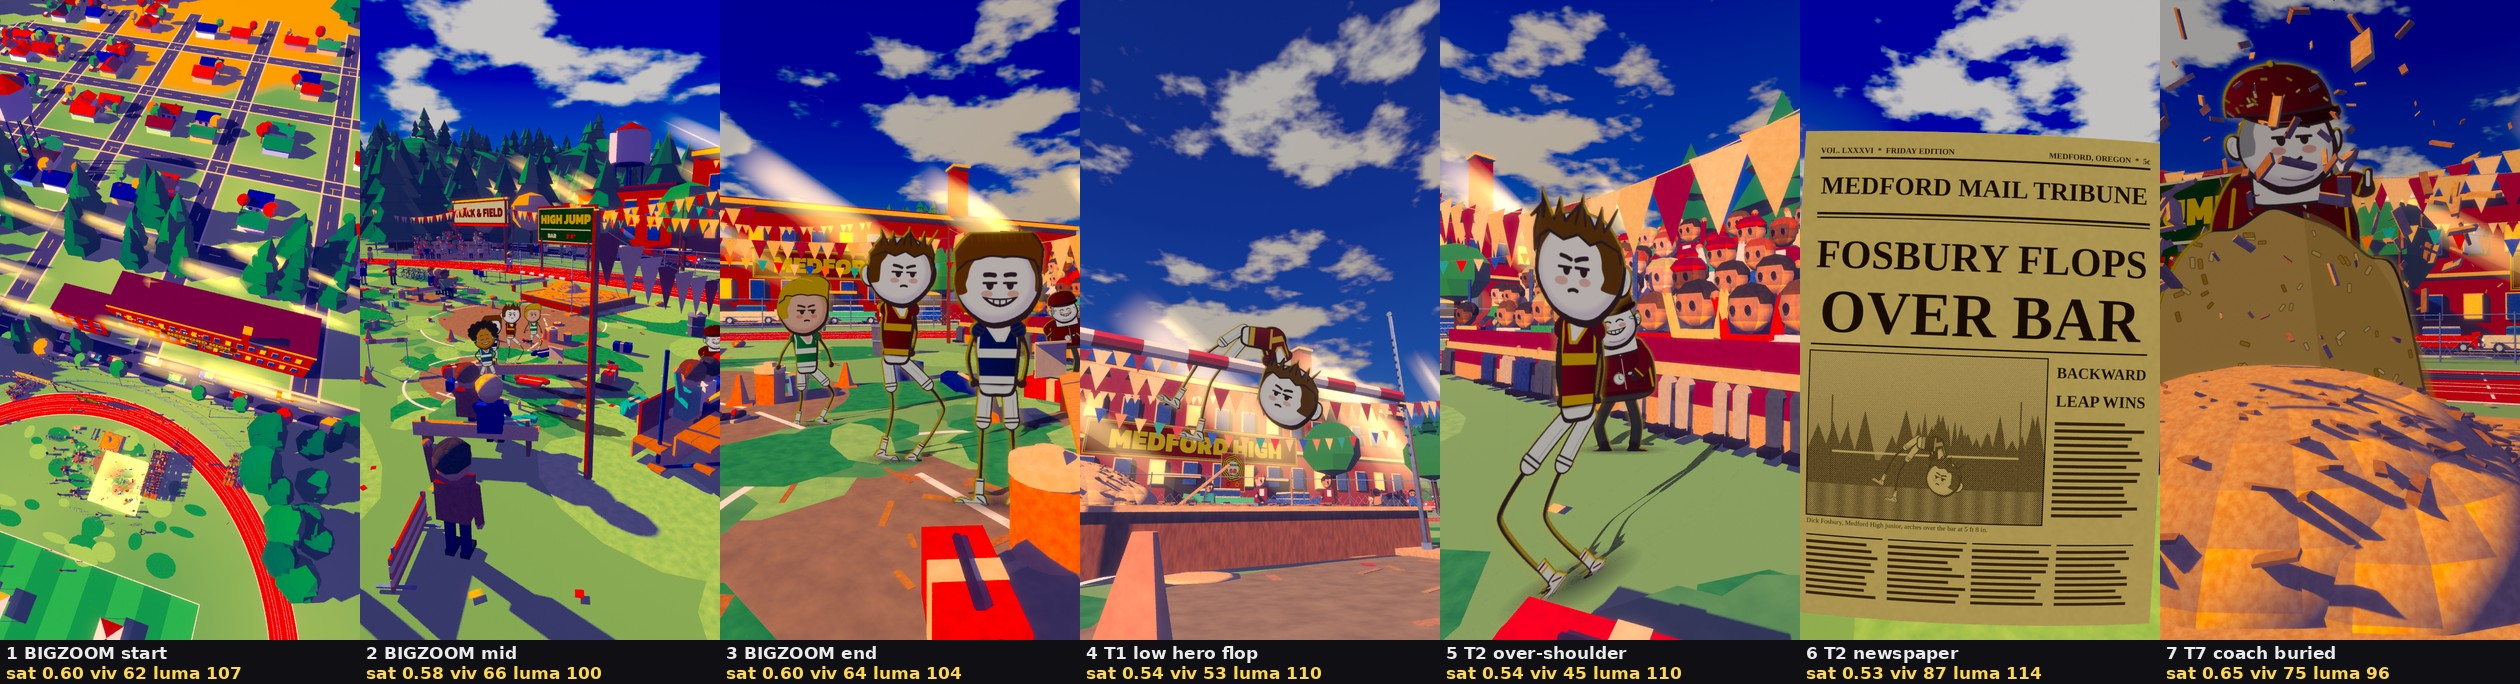
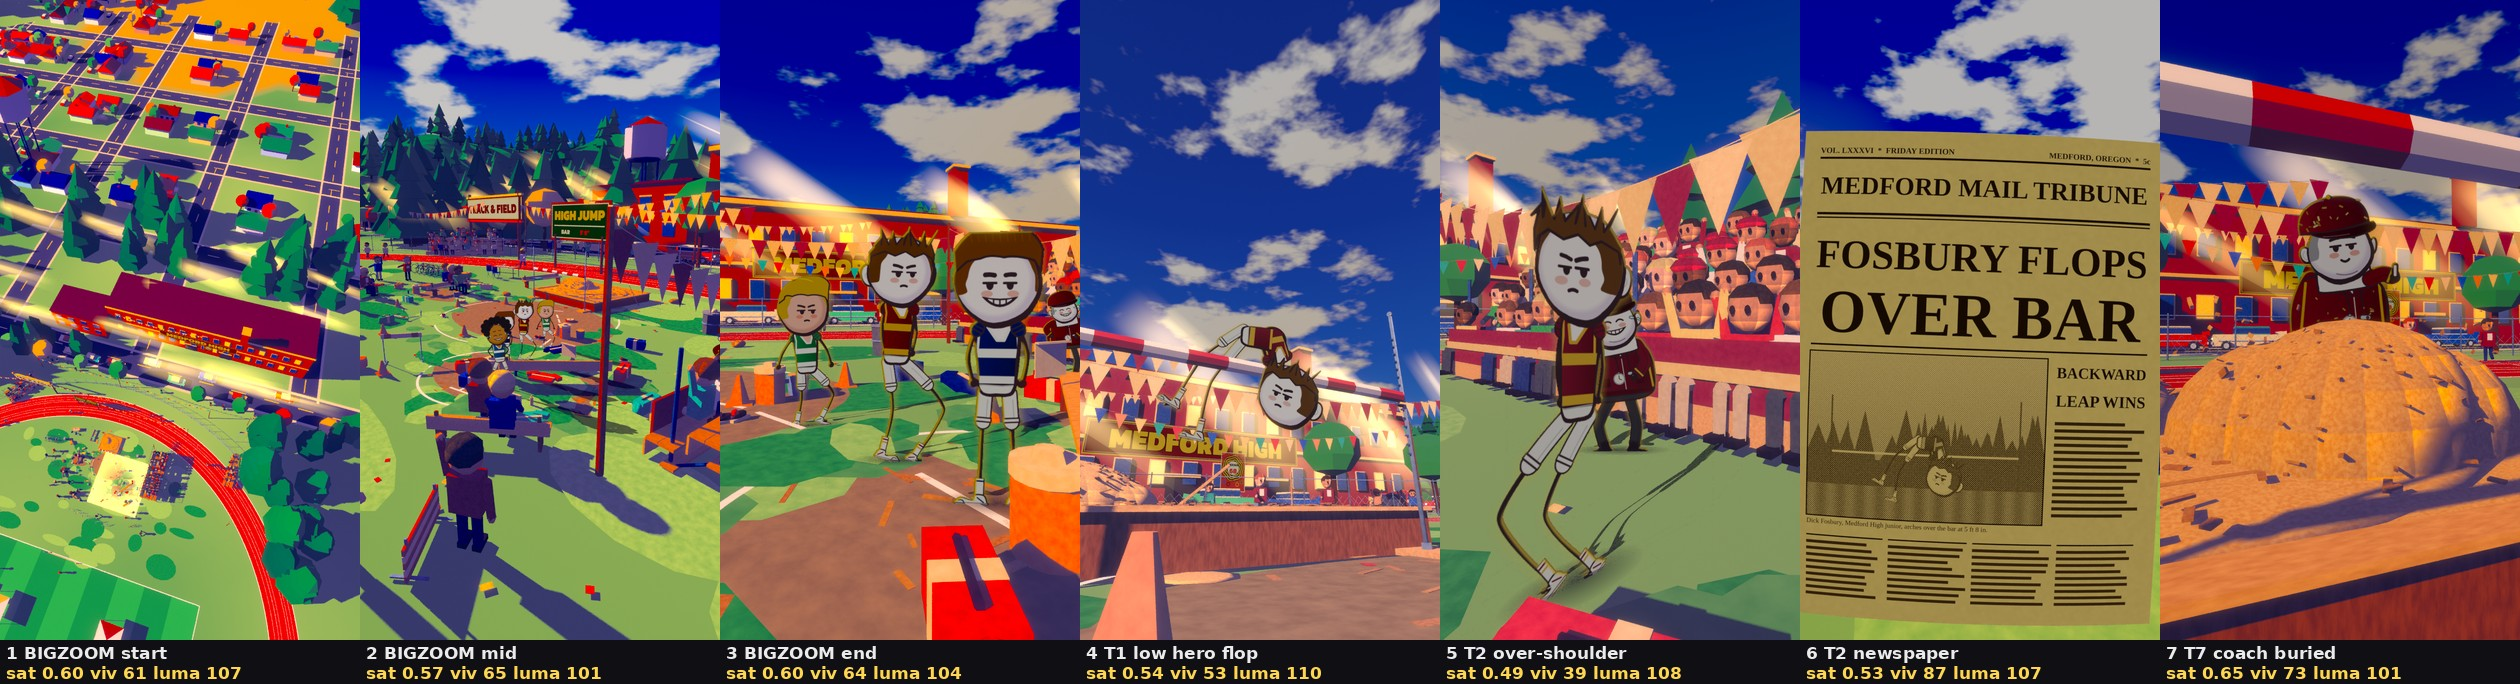
film15 v2: location A round 3 (no foam, soft low rays, 3D burial mound + flecks, bigzoom mid path)
Claude-Session: https://claude.ai/code/session_017iwyCvV4FWE8oAoH1CANdN

diff --git a/film/v3/set3d15/v2_a.py b/film/v3/set3d15/v2_a.py
@@ -628,14 +628,14 @@ def shaft_mat(color=(1.0, 0.72, 0.30), k=1.0):
     tr = N('ShaderNodeBsdfTransparent'); ad = N('ShaderNodeAddShader'); Lk(tr.outputs[0], ad.inputs[0]); Lk(em.outputs[0], ad.inputs[1])
     out = N('ShaderNodeOutputMaterial'); Lk(ad.outputs[0], out.inputs['Surface']); m.cycles.emission_sampling = 'NONE'; _SHAFT_MAT[key] = m; return m
 
-def god_rays(P, n=16, seed=5, strength=0.9, width=(3.0, 7.0), length=(38.0, 55.0), where=None, cross=True):
+def god_rays(P, n=16, seed=5, strength=0.9, width=(3.0, 7.0), length=(38.0, 55.0), where=None, cross=True, z_range=(12.0, 16.0)):
     """fake volumetric light shafts: long additive emissive cards (Transparent + Emission, no shadow, no bounce) lying along the sun direction, starting in the pine canopy and ending on the field.
     Each shaft is a CROSS of two quads (90 deg apart about the beam axis) so it reads from any direction. strength = emission multiplier (0.9 default); shaft_k node of the material scales all."""
     rr = rnd(seed); m = shaft_mat(k=strength * 1.0); kd = Vector(P['key_dir']).normalized(); sd = -kd
     pts = where or [(rr.uniform(-60, 40), rr.uniform(20, 70)) for _ in range(n)]
     objs = []
     for i, (x, y) in enumerate(pts):
-        ln = rr.uniform(*length); wd = rr.uniform(*width); top = Vector((x, y, rr.uniform(12, 16))); end = top + kd * ln
+        ln = rr.uniform(*length); wd = rr.uniform(*width); top = Vector((x, y, rr.uniform(*z_range))); end = top + kd * ln
         if end.z < 0: ln = top.z / -kd.z; end = top + kd * ln
         ax = (end - top).normalized(); up = Vector((0, 0, 1)); side = ax.cross(up).normalized(); nrm = side.cross(ax).normalized()
         for q in range(2 if cross else 1):
@@ -747,7 +747,7 @@ def infield_life(M, rr):
     """the south half of the field is not empty: team tents (maroon / gold), a long-jump runway + pit, a pole-vault mat, hurdle rows on the straights, cones, relay runners, benches + gear piles."""
     mk_people_mats(M); mb = S.MB('infield')
     M['maroonp'] = M.get('maroonp') or mat('maroonp', '#a82040', '#bc3050'); M['goldp'] = M.get('goldp') or mat('goldp', '#f0c040', '#f4d060')
-    M['matblue'] = mat('matblue', '#1c50e0', '#3a72f4'); M['sand'] = mat('sandA', '#ffd070', '#ffe08c', 6)
+    M['sand'] = mat('sandA', '#ffd070', '#ffe08c', 6)
     # tents: four posts, striped pyramid roof, bench + coolers under it
     for i, (tx, ty, yw, c1) in enumerate([(-18, -30, 0.1, 'maroonp'), (-10, -30, 0.0, 'goldp'), (14, -28, -0.1, 'maroonp'), (22, -30, 0.1, 'blue')]):
         for dx, dy in ((-2.2, -2.2), (2.2, -2.2), (2.2, 2.2), (-2.2, 2.2)): mb.rod(M['metal'], (tx + dx, ty + dy, 0), (tx + dx, ty + dy, 2.6), 0.05, 0.05, 6)
@@ -759,7 +759,9 @@ def infield_life(M, rr):
     mb.box(M['dirt'], (-24, -62, 0.012), (30.0, 2.4, 0.02)); mb.box(M['sand'], (-6.5, -62, 0.014), (5.0, 3.2, 0.02)); mb.box(M['chalk'], (-9.0, -62, 0.03), (0.3, 2.4, 0.01))
     person(mb, M, -17.0, -62.0, 0.02, -math.pi / 2, 'maroon', 'pantsb', 'skin1', 'hair', 'run', phase=0.6)
     # pole-vault / high-jump style mats (blue) with standards
-    mb.box(M['matblue'], (18.0, -62.0, 0.5), (5.0, 4.0, 1.0)); mb.box(M['matblue'], (18.0, -56.0, 0.35), (5.0, 3.0, 0.7)); mb.rod(M['metal'], (15.0, -58.5, 0), (15.0, -58.5, 4.5), 0.05, 0.05, 6); mb.rod(M['metal'], (21.0, -58.5, 0), (21.0, -58.5, 4.5), 0.05, 0.05, 6)
+    for (yy, rx, ry) in ((-62.0, 2.6, 2.0), (-55.5, 1.6, 1.2)):                       # 1963: SAWDUST pits in a wooden frame (no foam anywhere)
+        mb.box(M['wood'], (18.0, yy, 0.2), (rx * 2 + 0.3, ry * 2 + 0.3, 0.4)); mb.ell(M['saw'], (18.0, yy, 0.38), (rx, ry, 0.22), (14, 8))
+    mb.rod(M['woodpale'], (15.0, -58.5, 0), (15.0, -58.5, 4.5), 0.05, 0.05, 6); mb.rod(M['woodpale'], (21.0, -58.5, 0), (21.0, -58.5, 4.5), 0.05, 0.05, 6)
     mb.rod(M['yellow'], (15.0, -58.5, 4.2), (21.0, -58.5, 4.2), 0.03, 0.03, 6)
     # hurdles on the straights (lane 2 / 3), cones, start blocks
     for k in range(9): S.hurdle(mb, M, (-49.0, -36.0 - k * 1.7, 0.0), math.pi / 2, 0.0); S.hurdle(mb, M, (51.0, -36.0 - k * 1.7, 0.0), math.pi / 2, 0.0)
@@ -963,3 +965,35 @@ def spot(x, y, r=5.0, k=1.2, color=(1.0, 0.8, 0.35)):
     out = N('ShaderNodeOutputMaterial'); Lk(ad.outputs[0], out.inputs['Surface']); m.cycles.emission_sampling = 'NONE'
     z = 0.06
     return quad_obj('spot', [(x - r, y - r, z), (x + r, y - r, z), (x + r, y + r, z), (x - r, y + r, z)], m)
+
+
+def sawdust_flecks(frame, position, strength=1.0, seed=0, floor=None):
+    """v2 sawdust burst: SMALL flecks (2-4 cm grains, a few 6 cm splinters), low arcs (about 0.3 m high, 1 m out) that fall back and stay on the surface within ~0.5 s: nothing hangs in the air.
+    Same geometry-node group as F.sawdust_spray; position (x, y, z) in D (z = the surface), floor = landing z in D."""
+    M = STATE['M']; rr = rnd(91 + seed * 7 + int(frame)); p = Vector(position) * DM; fz = 0.02 if floor is None else (floor * DM - p.z) + 0.02
+    items = []
+    for i in range(int(70 * strength) + 10):
+        az = rr.random() * 6.28; el = math.radians(rr.uniform(35, 68)); sp_ = rr.uniform(0.9, 2.3) * (0.6 + 0.4 * strength); ln = rr.choice((0.025, 0.03, 0.04, 0.045, 0.06)); rd = rr.uniform(0.1, 0.7)
+        items.append((rd * math.cos(az), rd * math.sin(az), 0.03, sp_ * math.cos(el) * math.cos(az), sp_ * math.cos(el) * math.sin(az), sp_ * math.sin(el), ln))
+    V_ = []; F_ = []; mi = []; C = []; Vv = []; Sp = []; Tl = []
+    for (cx, cy, cz, vx, vy, vz, ln) in items:
+        a = rr.random() * 6.28; B, Fs = F.boxes_np([(cx, cy, cz)], [(ln, ln * rr.uniform(0.4, 0.8), ln * 0.35)], [a]); t_land = (vz + math.sqrt(max(vz * vz + 19.62 * (cz - fz), 0.0))) / 9.81
+        o = len(V_); V_ += B.tolist(); F_ += [[o + i for i in f] for f in Fs.tolist()]; mi += [rr.choice((0, 0, 1))] * 6; C += [(cx, cy, cz)] * 8; Vv += [(vx, vy, vz)] * 8; Sp += [(rr.uniform(-8, 8), rr.uniform(-8, 8), rr.uniform(-8, 8))] * 8; Tl += [t_land] * 8
+    me = bpy.data.meshes.new('flecks'); me.from_pydata(V_, [], F_); me.update()
+    for nm, typ, arr in (('c', 'FLOAT_VECTOR', C), ('v', 'FLOAT_VECTOR', Vv), ('sp', 'FLOAT_VECTOR', Sp), ('tl', 'FLOAT', Tl)):
+        at = me.attributes.new(nm, typ, 'POINT')
+        if typ == 'FLOAT': at.data.foreach_set('value', np.array(arr, dtype=np.float32))
+        else: at.data.foreach_set('vector', np.array(arr, dtype=np.float32).reshape(-1))
+    me.materials.append(M['saw']); me.materials.append(M['chip']); me.polygons.foreach_set('material_index', np.array(mi, dtype=np.int32))
+    ob = bpy.data.objects.new('flecks_%d' % frame, me); STATE['SET'].objects.link(ob); ob.parent = root(); ob.location = p; L.T.no_bounce(ob)
+    ng = F._spray_group().copy(); ng.nodes['start'].outputs[0].default_value = float(frame); md = ob.modifiers.new('spray', 'NODES'); md.node_group = ng
+    return ob
+
+def burial_mound(x, y, base, top, rr=None, r=(1.15, 0.95), toward=(0.0, -0.3)):
+    """a real 3D sawdust mound (smooth ellipsoids + grains, metres) from z `base` to `top`, centred (x, y) shifted by `toward`: the buried coach sits inside it (card chest at `top`)."""
+    rr = rr or rnd(7); M = STATE['M']; mb = S.MB('burial'); cx, cy = x + toward[0], y + toward[1]; h = top - base
+    mb.ell(M['saw'], (cx, cy, base), (r[0], r[1], h), (24, 12)); mb.ell(M['saw'], (cx - 0.55, cy + 0.15, base), (r[0] * 0.7, r[1] * 0.7, h * 0.8), (18, 10)); mb.ell(M['saw'], (cx + 0.55, cy - 0.1, base), (r[0] * 0.65, r[1] * 0.7, h * 0.75), (18, 10))
+    for i in range(160):
+        a = rr.random() * 6.28; rd = rr.random() ** 0.6; xx = cx + math.cos(a) * rd * r[0]; yy = cy + math.sin(a) * rd * r[1]; zz = base + h * math.sqrt(max(0.0, 1 - rd * rd)) * 0.97
+        mb.box(M['chip'] if i % 3 else M['sawdk'], (xx, yy, zz), (rr.uniform(0.04, 0.09), rr.uniform(0.015, 0.03), 0.01), rz=rr.random() * 6, rx=rr.uniform(-0.4, 0.4))
+    L.fin(mb)

diff --git a/film/v3/set3d15/v2_a_shots.py b/film/v3/set3d15/v2_a_shots.py
@@ -24,7 +24,7 @@ def catmull(pts, s):
 # east pine grove (x 36-54, tops at 13-19 m), skims the bleacher (x 11-15) 8 m up, drops behind the pit side and ends medium on Dick at his mark (5.6, -0.8): 3.1 m away, he is 40 % of the frame height.
 BZ1 = dict(dur=4.4,
            loc=[(24.0, -12.0, 100.0), (40.0, -30.0, 58.0), (37.0, -16.0, 21.0), (24.0, -9.0, 8.5), (11.0, -6.8, 3.0), (4.6, -3.9, 1.3)],
-           look=[(6.0, 50.0, 0.0), (8.0, 16.0, 0.0), (8.0, 8.0, 1.5), (6.5, 3.0, 1.5), (5.8, -0.4, 1.3), (5.7, -0.6, 1.2)],
+           look=[(6.0, 50.0, 0.0), (10.0, 22.0, 1.0), (12.0, 30.0, 4.5), (6.5, 3.0, 1.5), (5.8, -0.4, 1.3), (5.7, -0.6, 1.2)],
            ease=2.4)
 
 def bigzoom1_path(t, spec=BZ1):
@@ -62,8 +62,8 @@ def _D(p): return tuple(c * U for c in p)
 def _cam(loc_m, look_m, lens=22.0):
     c = F.make_camera(F.cam_from(_D(loc_m), _D(look_m), lens=lens)); return c, tuple(c.location)
 
-GRADE_SAT = dict(s1=1.3, s2=1.3, s3=1.2, s4=1.0, s5=1.1, s6=1.35, s7=1.15)
-EXPO = dict(s1=-0.7, s2=-0.85, s3=-1.15, s4=-1.15, s5=-1.15, s6=-0.9, s7=-1.6)
+GRADE_SAT = dict(s1=1.3, s2=1.3, s3=1.2, s4=1.0, s5=1.03, s6=1.35, s7=1.15)
+EXPO = dict(s1=-0.7, s2=-0.85, s3=-1.15, s4=-1.15, s5=-1.35, s6=-1.1, s7=-1.6)
 CUR = ['s3']
 def _base(light='HERO', **kw):
     A = V.build_a2(light, **kw); sc = bpy.context.scene; F.setup_render(sc, 'final'); sc.cycles.samples = 14; sc.view_settings.exposure = EXPO.get(CUR[0], -0.8); V.set_grade_sat(sc, GRADE_SAT.get(CUR[0], 1.15)); V.CT(); return A, sc
@@ -81,11 +81,11 @@ def _put_hero_cards(cl, dick_pose='rock_a', boys=True, coach=True, scale_ppd=128
     rep['dick'] = V.ground_card('c_dick', 'dick', cast15.pose_for(dick_pose, 'dick'), D(M['dick_mark']), cl, ppd=scale_ppd, contact=(1.4, 0.5))
     return rep
 
-RAYS_ON = False   # director review: the shafts read as glitches from these angles; set True to use them (V.god_rays)
-def rays(seed=11, k=0.28):
+RAYS_ON = True    # low, faint shafts among the pines (tops 6-10 m, k 0.09); False = none
+def rays(seed=11, k=0.09):
     """4 clean soft shafts falling out of the west pine grove edge (x -48..-38) toward the field; strength k."""
     if not RAYS_ON: return
-    rr = V.rnd(seed); V.god_rays(STATE['P'], n=4, seed=seed, strength=k, width=(6.0, 9.0), length=(15.0, 20.0), where=[(rr.uniform(-48, -38), 12 + 6 * i) for i in range(4)])
+    rr = V.rnd(seed); V.god_rays(STATE['P'], n=4, seed=seed, strength=k, width=(3.5, 5.5), length=(12.0, 16.0), z_range=(6.0, 10.0), where=[(rr.uniform(-60, -44), 12 + 6 * i) for i in range(4)])
 
 def hero_beam(x, y, k=1.5, width=4.0):
     """one visible shaft that lands on (x, y) m: the sun beam that makes Dick findable in the BIGZOOM start."""
@@ -136,15 +136,15 @@ def s6_newspaper(q):
 
 def s7_buried(q):
     import cast15
-    A, sc = _base(); M = STATE['marks_m']; cam, cl = _cam((-0.5, 6.2, 1.15), (-1.35, 8.9, 1.25)); V.rim_on(to_light=(-0.8, -0.5), width=5, strength=0.9); ct = V.CT()
-    mk = Vector(_D((-1.35, 8.0, 0.80))); pose = cast15.pose_for('coach_buried', 'coach')
-    r = ct.put('b_coach', 'coach', pose, tuple(mk), cl, canvas=cast15.CANVAS15_WIDE, dz=0.0, shadow=None, ppd=192)
-    f0 = 2040; F.sawdust_spray(f0 - 9, (mk.x, mk.y, mk.z + 0.2), strength=1.7, seed=3)
-    for i, (cast, pn, sz) in enumerate((('boy1', 'sit_laugh', 0), ('boy2', 'sit_gape', 1), ('boy3', 'sit_laugh', 2))):
-        p = M['boys_bench_a'] if i == 0 else (M['boys_bench_b'] if i == 1 else M['boys_bench_c']); V.ground_card('s_b%d' % i, cast, cast15.pose_for(pn, cast), (p[0] * U + 0.2, p[1] * U), cl, z=0.0, ppd=128)
-    rays()
-    
-    sc.frame_set(f0); return cam, 'T7 coach buried in the sawdust'
+    A, sc = _base(); M = STATE['marks_m']; X, Y = 0.9, 7.2; base = 0.46
+    cam, cl = _cam((X - 1.0, Y - 2.8, 1.15), (X, Y, 1.25)); V.rim_on(to_light=(-0.8, -0.5), width=5, strength=0.9); ct = V.CT()
+    pose = dict(cast15.pose_for('coach_buried', 'coach'), buried=0)          # no painted mound: a real 3D mound covers him
+    r = ct.put('b_coach', 'coach', pose, (X * U, Y * U, base * U), cl, canvas=cast15.CANVAS15_WIDE, shadow=None, ppd=192)
+    chest = r['world'](r['anchors']['chest']); V.burial_mound(X, Y, base, chest.z * DM - 0.12, r=(0.95, 0.8))
+    f0 = 2040; V.sawdust_flecks(f0 - 12, (X * U, Y * U, (base + 0.9) * U), strength=1.0, seed=3, floor=base * U)
+    for i, (cast, pn) in enumerate((('boy1', 'sit_laugh'), ('boy2', 'sit_gape'), ('boy3', 'sit_laugh'))):
+        p = (M['boys_bench_a'], M['boys_bench_b'], M['boys_bench_c'])[i]; V.ground_card('s_b%d' % i, cast, cast15.pose_for(pn, cast), (p[0] * U + 0.2, p[1] * U), cl, z=0.0, ppd=128)
+    rays(); sc.frame_set(f0); return cam, 'T7 coach buried in a 3D sawdust mound, small flecks falling'
 
 STILLS = [('s1', s1_bigzoom_start), ('s2', s2_bigzoom_mid), ('s3', s3_bigzoom_end), ('s4', s4_flop_low), ('s5', s5_ots_coach), ('s6', s6_newspaper), ('s7', s7_buried)]
 

diff --git a/film/v3/set3d15/API_v2_a.md b/film/v3/set3d15/API_v2_a.md
@@ -14,7 +14,7 @@ Signs are PIL textures in `work_v2_a/tex/` shown as emission (`V.mat_tex`).
 
 ## Light
 - Key: warm sun + painted blue-violet shade (shade hue 224-262).
-- **God rays**: `V.god_rays(P, n, seed, strength, width, length, where=[(x,y)..])` additive (Transparent+Emission) crossed quads along the sun direction; `V.tune_rays(k)`; stills use `SHT.rays()` (6 beams out of the west grove, k 0.42).
+- **God rays**: `V.god_rays(P, n, seed, strength, width, length, where=[(x,y)..], z_range=(12,16))` additive (Transparent+Emission) crossed quads along the sun direction, soft edges, no streak noise; `V.tune_rays(k)`. `SHT.RAYS_ON` (default True) / `SHT.rays()`: 4 LOW shafts (tops 6-10 m, k 0.09) out of the west pine grove. Keep k <= 0.15 and tops below the tree line, otherwise they smear over sky and bunting.
 - **Rim / back light for cards**: `V.rim_on(to_light=(-0.7,-0.5), color='#ffb040', width=5, strength=1, glow=0.5)` BEFORE `put`/`ground_card`; to_light = screen direction (x right, y down) from figure to light; `V.rim_off()`.
 
 ## Grounding
@@ -28,3 +28,10 @@ Signs are PIL textures in `work_v2_a/tex/` shown as emission (`V.mat_tex`).
 
 ## Measured / limits
 See report. Shot cost ~5 s wall/9 s CPU (preview), build 3 s. Not done: Dick hero flop uses only the cast sprite (no motion), T3 DAY shift not tuned (`HERODAY` preset only), OTS foreground Dick is a 3D stand-in, newspaper hands crude.
+
+## Round 3 (QA-art fixes)
+- 1963: no foam anywhere. The blue mats in the infield are now two sawdust pits in wooden frames (wooden standards).
+- Exposure / saturation defaults: preset `A_HERO` exposure -0.7, grade 1.22; each still overrides them in `SHT.EXPO` / `SHT.GRADE_SAT` (s1 -0.7/1.3 ... s7 -1.6/1.15; s6 -1.1/1.35). `_base()` re-applies them after `F.setup_render` (which resets exposure to 0).
+- T7: `V.burial_mound(x, y, base, top)` is a real 3D sawdust mound (ellipsoids + grains) covering the buried coach (pose `buried=0`, card chest at the mound top). `V.sawdust_flecks(frame, pos, strength, seed, floor)` = small 2-6 cm flecks on low arcs that land within ~0.5 s (replaces `F.sawdust_spray` for A: its chips are 7-15 cm).
+- BIGZOOM 1 look points now sweep over the bleacher and the MEDFORD HIGH sign at mid path.
+- Back-view Dick: cast15 has no back view (head `yaw` turn only). s5 uses the 3/4 head-turn card; a render team that needs a true back view must add a pose to cast15.
